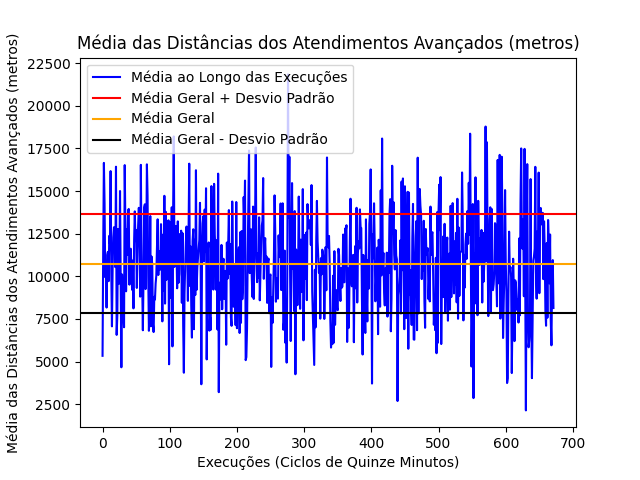
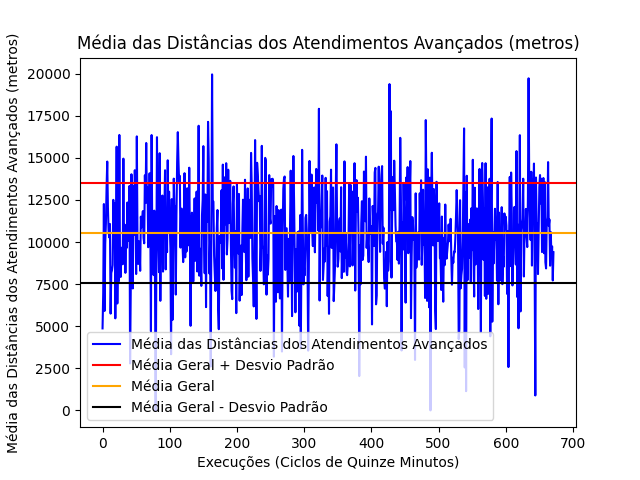
Correção da legenda

Changed region(s): [[0.0312, 0.125, 0.9062, 0.875], [0.0625, 0.6562, 0.125, 0.6875]]

diff --git a/day-time-execution/designacao.py b/day-time-execution/designacao.py
@@ -255,7 +255,7 @@ ax.axhline(y=(mediaAvancada - desvioPadraoAvancado), xmin= 0, xmax=simulacao, co
 ax.set_title("Tempo de Espera Médio Para Atendimentos Avançados (minutos)")
 ax.set_ylabel("Tempo em Minutos")
 ax.set_xlabel("Execuções (Ciclos de Cinco Minutos)")
-ax.legend(["Média ao Longo das Execuções", "Média Geral + Desvio Padrão", "Média Geral", "Média Geral - Desvio Padrão"])
+ax.legend(["Tempo de Espera Médio Para Atendimentos Avançados", "Média Geral + Desvio Padrão", "Média Geral", "Média Geral - Desvio Padrão"])
 
 fig1.savefig(f"Espera_Media_Avancadas_{Environment.SPEED}_{Environment.AVANCADAS}")
 
@@ -268,7 +268,7 @@ ax2.axhline(y=(mediaBasica - desvioPadroaBasico), xmin= 0, xmax=simulacao, color
 ax2.set_title("Tempo de Espera Médio Para Atendimentos Básicos (minutos)")
 ax2.set_ylabel("Tempo em Minutos")
 ax2.set_xlabel("Execuções (Ciclos de Cinco Minutos)")
-ax2.legend(["Média ao Longo das Execuções", "Média Geral + Desvio Padrão", "Média Geral", "Média Geral - Desvio Padrão"])
+ax2.legend(["Tempo de Espera Médio Para Atendimentos Básicos", "Média Geral + Desvio Padrão", "Média Geral", "Média Geral - Desvio Padrão"])
 
 fig2.savefig(f"Espera_Media_Basicas_{Environment.SPEED}_{Environment.BASICAS}")
 
@@ -281,7 +281,7 @@ ax3.axhline(y=(mediaBasica - desvioPadroaBasico), xmin= 0, xmax=simulacao, color
 ax3.set_title("Número de Atendimentos Basicos Não Realizados")
 ax3.set_ylabel("Número de Atendimentos Basicos Não Realizados")
 ax3.set_xlabel("Execuções (Ciclos de Quinze Minutos)")
-ax3.legend(["Média ao Longo das Execuções", "Média Geral + Desvio Padrão", "Média Geral", "Média Geral - Desvio Padrão"])
+ax3.legend(["Número de Atendimentos Basicos Não Realizados", "Média Geral + Desvio Padrão", "Média Geral", "Média Geral - Desvio Padrão"])
 
 fig3.savefig(f"Numero_De_Atendimentos_Basicos_Nao_Realizados_{Environment.SPEED}_{Environment.BASICAS}")
 
@@ -294,7 +294,7 @@ ax4.axhline(y=(mediaBasica - desvioPadroaBasico), xmin= 0, xmax=simulacao, color
 ax4.set_title("Número de Atendimentos Avançados Não Realizados")
 ax4.set_ylabel("Número de Atendimentos Avançados Não Realizados")
 ax4.set_xlabel("Execuções (Ciclos de Quinze Minutos)")
-ax4.legend(["Média ao Longo das Execuções", "Média Geral + Desvio Padrão", "Média Geral", "Média Geral - Desvio Padrão"])
+ax4.legend(["Número de Atendimentos Avançados Não Realizados", "Média Geral + Desvio Padrão", "Média Geral", "Média Geral - Desvio Padrão"])
 
 fig4.savefig(f"Numero_De_Atendimentos_Avancados_Nao_Realizados_{Environment.SPEED}_{Environment.AVANCADAS}")
 
@@ -307,7 +307,7 @@ ax5.axhline(y=(mediaBasica - desvioPadroaBasico), xmin= 0, xmax=simulacao, color
 ax5.set_title("Média das Distâncias dos Atendimentos Básicos (metros)")
 ax5.set_ylabel("Média das Distâncias dos Atendimentos Básicos (metros)")
 ax5.set_xlabel("Execuções (Ciclos de Quinze Minutos)")
-ax5.legend(["Média ao Longo das Execuções", "Média Geral + Desvio Padrão", "Média Geral", "Média Geral - Desvio Padrão"])
+ax5.legend(["Média das Distâncias dos Atendimentos Básicos", "Média Geral + Desvio Padrão", "Média Geral", "Média Geral - Desvio Padrão"])
 
 fig5.savefig(f"Media_De_Distancias_Dos_Atendimentos_Basicos_{Environment.SPEED}_{Environment.BASICAS}")
 
@@ -320,7 +320,7 @@ ax6.axhline(y=(mediaBasica - desvioPadroaBasico), xmin= 0, xmax=simulacao, color
 ax6.set_title("Média das Distâncias dos Atendimentos Avançados (metros)")
 ax6.set_ylabel("Média das Distâncias dos Atendimentos Avançados (metros)")
 ax6.set_xlabel("Execuções (Ciclos de Quinze Minutos)")
-ax6.legend(["Média ao Longo das Execuções", "Média Geral + Desvio Padrão", "Média Geral", "Média Geral - Desvio Padrão"])
+ax6.legend(["Média das Distâncias dos Atendimentos Avançados", "Média Geral + Desvio Padrão", "Média Geral", "Média Geral - Desvio Padrão"])
 
 fig6.savefig(f"Media_De_Distancias_Dos_Atendimentos_Avancados_{Environment.SPEED}_{Environment.AVANCADAS}")
 
@@ -333,7 +333,7 @@ ax7.axhline(y=(mediaBasica - desvioPadroaBasico), xmin= 0, xmax=simulacao, color
 ax7.set_title("Número de Ambulâncias Avançadas Disponíveis")
 ax7.set_ylabel("Número de Ambulâncias Avançadas Disponíveis")
 ax7.set_xlabel("Execuções (Ciclos de Quinze Minutos)")
-ax7.legend(["Média ao Longo das Execuções", "Média Geral + Desvio Padrão", "Média Geral", "Média Geral - Desvio Padrão"])
+ax7.legend(["Número de Ambulâncias Avançadas Disponíveis", "Média Geral + Desvio Padrão", "Média Geral", "Média Geral - Desvio Padrão"])
 
 fig7.savefig(f"Numero_De_Ambulancias_Avancadas_{Environment.SPEED}_{Environment.AVANCADAS}")
 
@@ -346,7 +346,7 @@ ax8.axhline(y=(mediaBasica - desvioPadroaBasico), xmin= 0, xmax=simulacao, color
 ax8.set_title("Número de Ambulâncias Básicas Disponíveis")
 ax8.set_ylabel("Número de Ambulâncias Básicas Disponíveis")
 ax8.set_xlabel("Execuções (Ciclos de Quinze Minutos)")
-ax8.legend(["Média ao Longo das Execuções", "Média Geral + Desvio Padrão", "Média Geral", "Média Geral - Desvio Padrão"])
+ax8.legend(["Número de Ambulâncias Básicas Disponíveis", "Média Geral + Desvio Padrão", "Média Geral", "Média Geral - Desvio Padrão"])
 
 fig8.savefig(f"Numero_De_Ambulancias_Basicas_{Environment.SPEED}_{Environment.BASICAS}")
 
